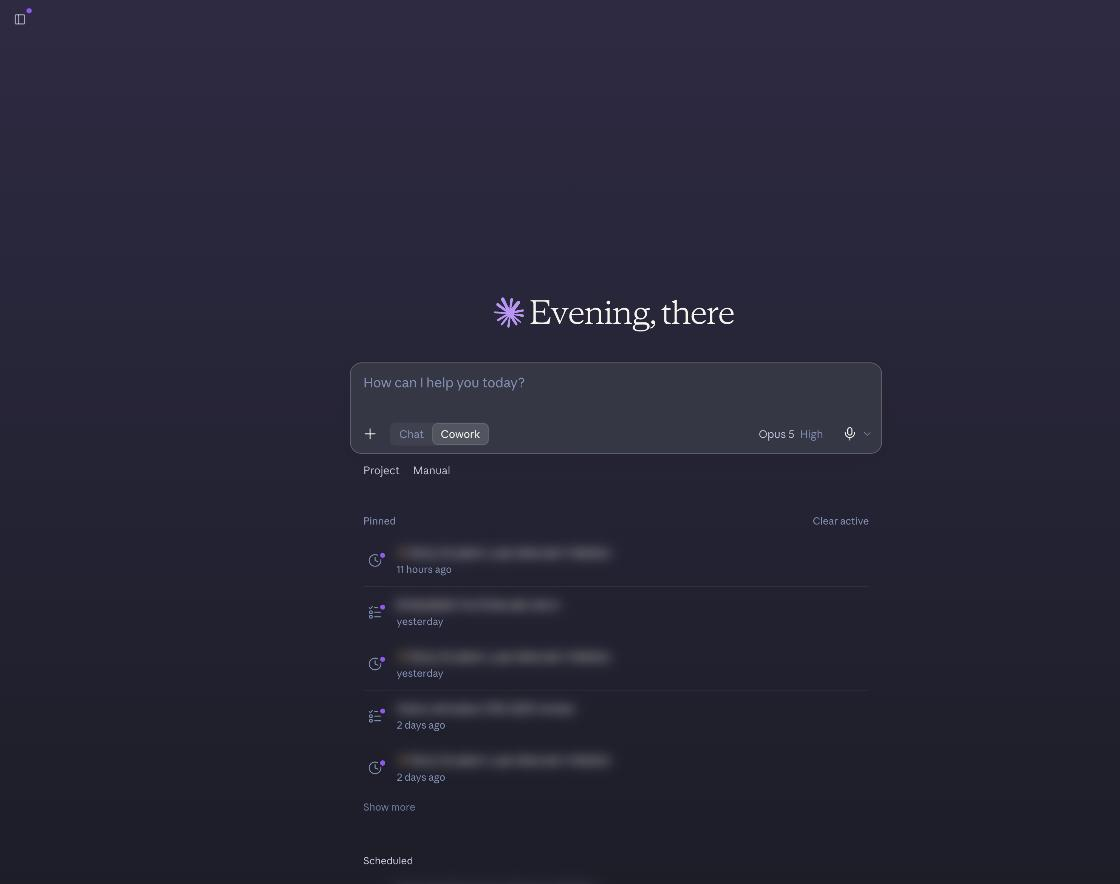
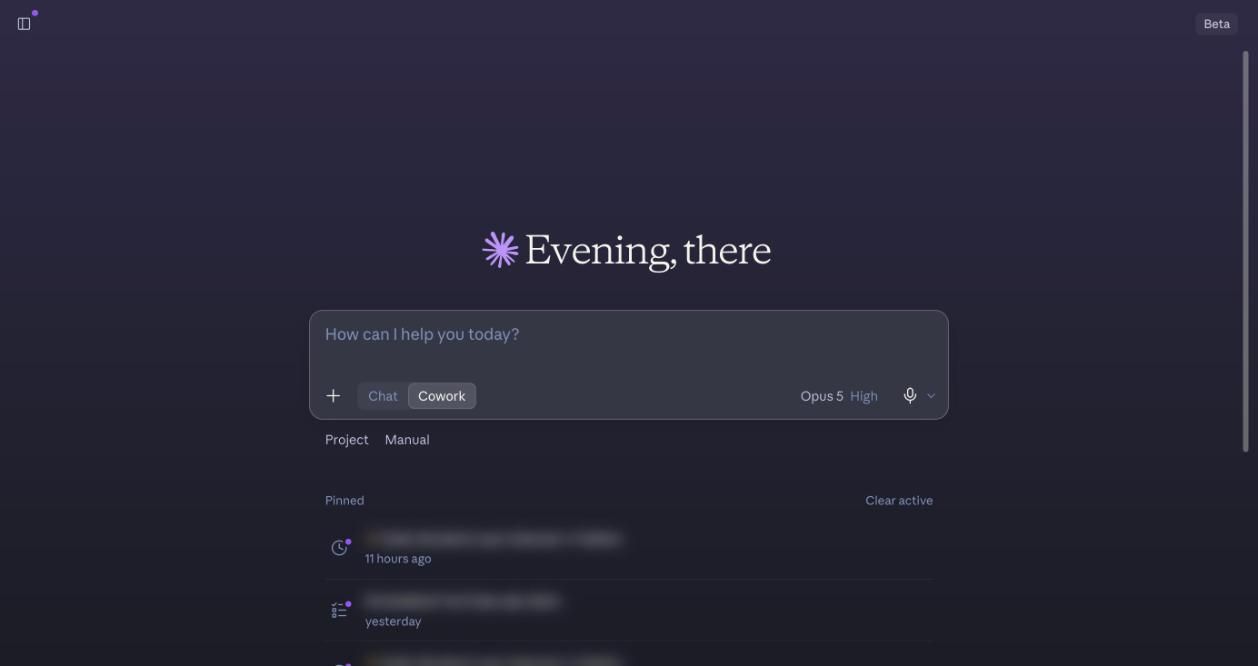
README: retake screenshots at laptop size, add the glow
Claude-Session: https://claude.ai/code/session_01Q1uQUD6RZBykL5svoneXei

diff --git a/README.md b/README.md
@@ -35,6 +35,8 @@ The Klaviyo app, built on Klaviyo's own design tokens so the theme follows its c
 
 The border Claude in Chrome paints around a tab while it controls it, recoloured from brand orange to Dracula purple, along with its cursor, stop pill and tooltips.
 
+![Claude in Chrome controlling a tab with the Dracula glow](screenshots/glow.jpg)
+
 [![Install with Stylus](https://img.shields.io/badge/Install-with_Stylus-bd93f9?style=for-the-badge&labelColor=282a36)](https://raw.githubusercontent.com/rdjxyz/dracula-userstyles/main/claude-dracula-glow.user.css)
 
 ## Updating
